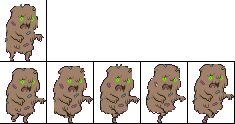
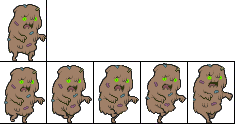
Updated zombie graphics again. looks clean now

diff --git a/src/Enemies/Zombie.java b/src/Enemies/Zombie.java
@@ -32,7 +32,7 @@ public class Zombie extends Enemy implements SoundController{
 
 
 	public Zombie(Point location, Direction facingDirection) {
-        super(location.x, location.y, new SpriteSheet(ImageLoader.load("NewZombie.png"), 46, 61), "WALK_RIGHT");
+        super(location.x, location.y, new SpriteSheet(ImageLoader.load("thumbnail_Zombie.png"), 46, 61), "WALK_RIGHT");
 
         this.startFacingDirection = facingDirection;
 		this.initialize();
@@ -170,14 +170,14 @@ public class Zombie extends Enemy implements SoundController{
        return new HashMap<String, Frame[]>() {{
         put("STAND_RIGHT", new Frame[] {
             new FrameBuilder(spriteSheet.getSprite(0, 0))
-                    .withScale(1.5f)
+                    .withScale(1)
                     .withBounds(11, 6, 26, 55)
                     .build()
     });
 
     put("STAND_LEFT", new Frame[] {
             new FrameBuilder(spriteSheet.getSprite(0, 0))
-                    .withScale(1.5f)
+                    .withScale(1)
                    .withImageEffect(ImageEffect.FLIP_HORIZONTAL)
                    .withBounds(11, 6, 26, 55)
                     .build()
@@ -185,41 +185,41 @@ public class Zombie extends Enemy implements SoundController{
 
     put("WALK_RIGHT", new Frame[] {
             new FrameBuilder(spriteSheet.getSprite(1, 0), 200)
-                    .withScale(1.5f)
+                    .withScale(1)
                     .withBounds(11, 6, 26, 55)
                     .build(),
             new FrameBuilder(spriteSheet.getSprite(1, 1), 200)
-                    .withScale(1.5f)
+                    .withScale(1)
                     .withBounds(11, 6, 26, 55)
                     .build(),
             new FrameBuilder(spriteSheet.getSprite(1, 2), 200)
-                    .withScale(1.5f)
+                    .withScale(1)
                     .withBounds(11, 6, 26, 55)
                     .build(),
             new FrameBuilder(spriteSheet.getSprite(1, 3), 200)
-                    .withScale(1.5f)
+                    .withScale(1)
                     .withBounds(11, 6, 26, 55)
                     .build()
     });
 
     put("WALK_LEFT", new Frame[] {
             new FrameBuilder(spriteSheet.getSprite(1, 0), 200)
-                    .withScale(1.5f)
+                    .withScale(1)
                     .withImageEffect(ImageEffect.FLIP_HORIZONTAL)
                     .withBounds(11, 6, 26, 55)
                     .build(),
             new FrameBuilder(spriteSheet.getSprite(1, 1), 200)
-                    .withScale(1.5f)
+                    .withScale(1)
                     .withImageEffect(ImageEffect.FLIP_HORIZONTAL)
                     .withBounds(11, 6, 26, 55)
                     .build(),
             new FrameBuilder(spriteSheet.getSprite(1, 2), 200)
-                    .withScale(1.5f)
+                    .withScale(1)
                     .withImageEffect(ImageEffect.FLIP_HORIZONTAL)
                     .withBounds(11, 6, 26, 55)
                     .build(),
             new FrameBuilder(spriteSheet.getSprite(1, 3), 200)
-                    .withScale(1.5f)
+                    .withScale(1)
                     .withImageEffect(ImageEffect.FLIP_HORIZONTAL)
                     .withBounds(11, 6, 26, 55)
                     .build()

diff --git a/src/Enemies/SmallZombie.java b/src/Enemies/SmallZombie.java
@@ -29,7 +29,7 @@ public class SmallZombie extends Enemy{
 
 
 	public SmallZombie(Point location, Direction facingDirection) {
-        super(location.x, location.y, new SpriteSheet(ImageLoader.load("NewSmallZombie.png"), 49, 42), "WALK_RIGHT");
+        super(location.x, location.y, new SpriteSheet(ImageLoader.load("SmallZombie.png"), 46, 61), "WALK_RIGHT");
         this.startFacingDirection = facingDirection;
 		this.initialize();
 	}
@@ -166,14 +166,14 @@ public class SmallZombie extends Enemy{
        return new HashMap<String, Frame[]>() {{
         put("STAND_RIGHT", new Frame[] {
             new FrameBuilder(spriteSheet.getSprite(0, 0))
-                    .withScale(1.5f)
+                    .withScale(1)
                     .withBounds(6, 12, 12, 7)
                     .build()
     });
 
     put("STAND_LEFT", new Frame[] {
             new FrameBuilder(spriteSheet.getSprite(0, 0))
-                    .withScale(1.5f)
+                    .withScale(1)
                    .withImageEffect(ImageEffect.FLIP_HORIZONTAL)
                     .withBounds(6, 12, 12, 7)
                     .build()
@@ -181,41 +181,41 @@ public class SmallZombie extends Enemy{
 
     put("WALK_RIGHT", new Frame[] {
             new FrameBuilder(spriteSheet.getSprite(1, 0), 200)
-                    .withScale(1.5f)
+                    .withScale(1)
                     .withBounds(6, 12, 12, 7)
                     .build(),
             new FrameBuilder(spriteSheet.getSprite(1, 1), 200)
-                    .withScale(1.5f)
+                    .withScale(1)
                     .withBounds(6, 12, 12, 7)
                     .build(),
             new FrameBuilder(spriteSheet.getSprite(1, 2), 200)
-                    .withScale(1.5f)
+                    .withScale(1)
                     .withBounds(6, 12, 12, 7)
                     .build(),
             new FrameBuilder(spriteSheet.getSprite(1, 3), 200)
-                    .withScale(1.5f)
+                    .withScale(1)
                     .withBounds(6, 12, 12, 7)
                     .build()
     });
 
     put("WALK_LEFT", new Frame[] {
             new FrameBuilder(spriteSheet.getSprite(1, 0), 200)
-                    .withScale(1.5f)
+                    .withScale(1)
                     .withImageEffect(ImageEffect.FLIP_HORIZONTAL)
                     .withBounds(6, 12, 12, 7)
                     .build(),
             new FrameBuilder(spriteSheet.getSprite(1, 1), 200)
-                    .withScale(1.5f)
+                    .withScale(1)
                     .withImageEffect(ImageEffect.FLIP_HORIZONTAL)
                     .withBounds(6, 12, 12, 7)
                     .build(),
             new FrameBuilder(spriteSheet.getSprite(1, 2), 200)
-                    .withScale(1.5f)
+                    .withScale(1)
                     .withImageEffect(ImageEffect.FLIP_HORIZONTAL)
                     .withBounds(6, 12, 12, 7)
                     .build(),
             new FrameBuilder(spriteSheet.getSprite(1, 3), 200)
-                    .withScale(1.5f)
+                    .withScale(1)
                     .withImageEffect(ImageEffect.FLIP_HORIZONTAL)
                     .withBounds(6, 12, 12, 7)
                     .build()
